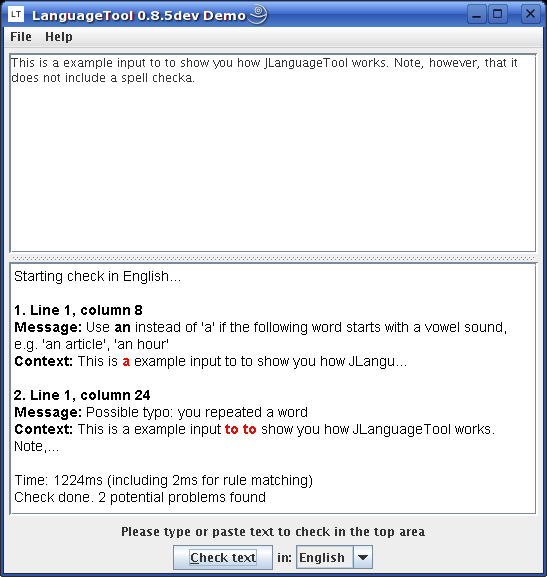
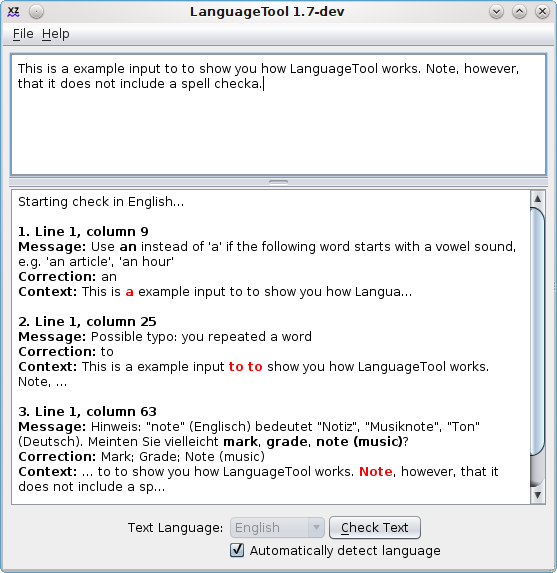
update screenshot of the stand-alone GUI

Changed region(s): [[0.0, 0.0, 1.0, 1.0]]

diff --git a/www/screenshots/index.php b/www/screenshots/index.php
@@ -30,7 +30,7 @@ include("../../include/header.php");
 <tr><td>&nbsp;</td></tr>
 <tr>
 <td>
-	<a href="art/screenshot.png"><img border="0" width="250" height="264" 
+	<a href="art/screenshot.png"><img border="0" width="250" height="257"
 		src="art/screenshot_small.png" alt="stand-alone version of LanguageTool" /></a><br />
 		<a href="art/screenshot.png"><span style="font-size:10px">The simple stand-alone
 		user interface which lets<br/>you type in or paste text and check it (click to enlarge)</span></a>
